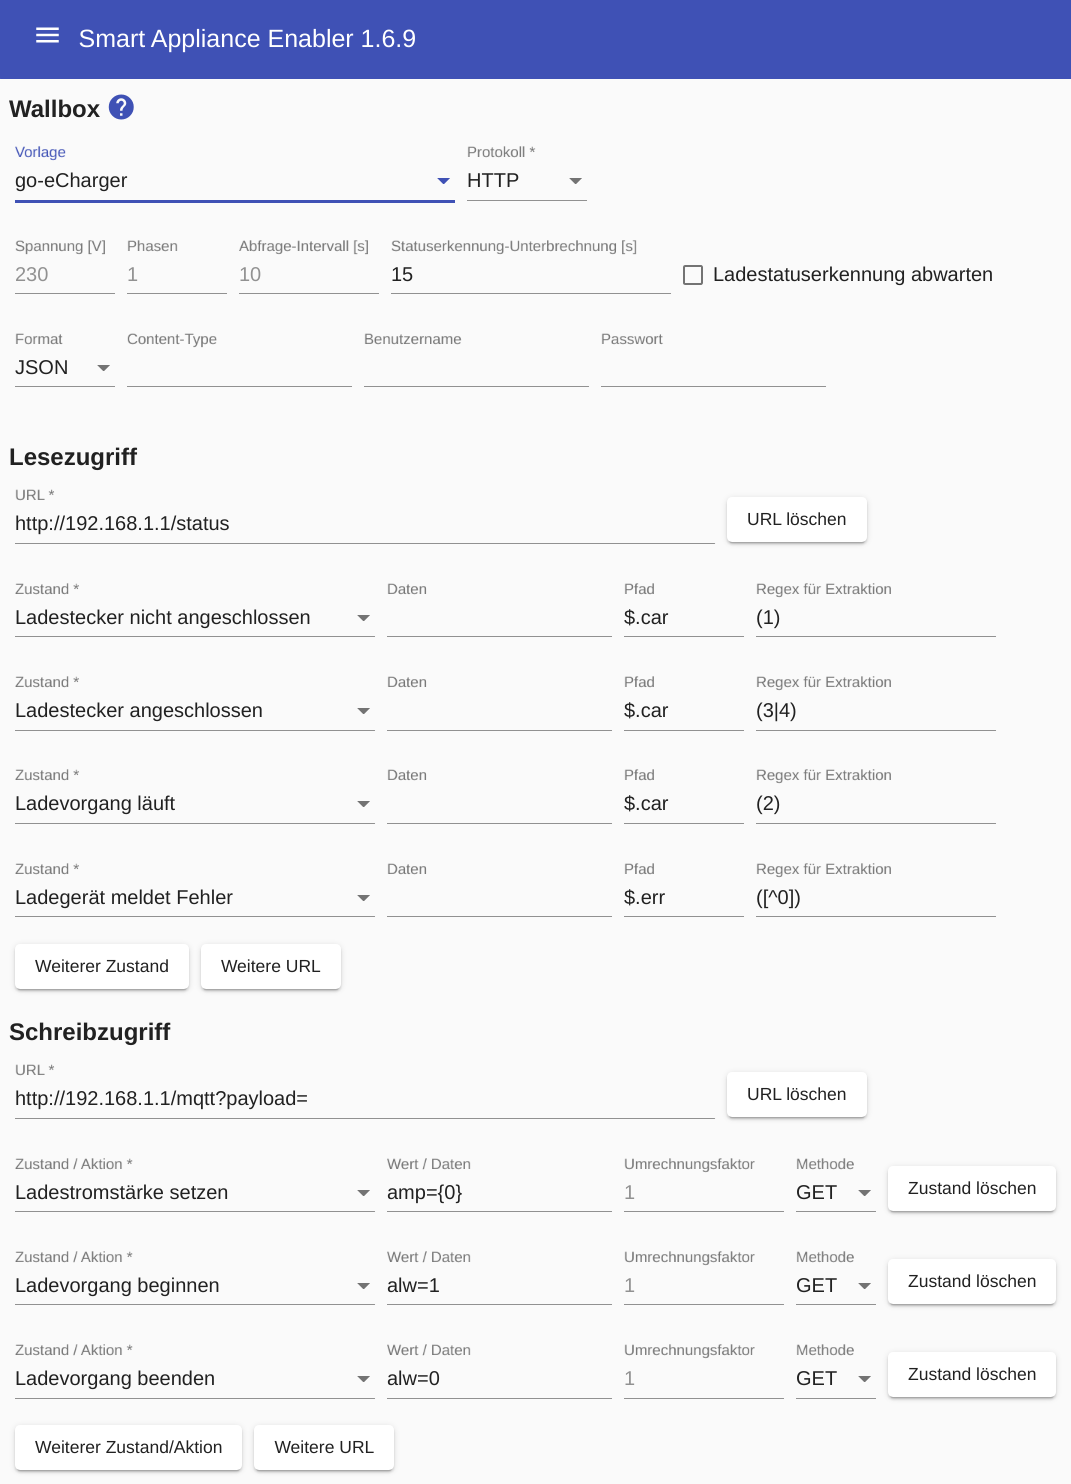
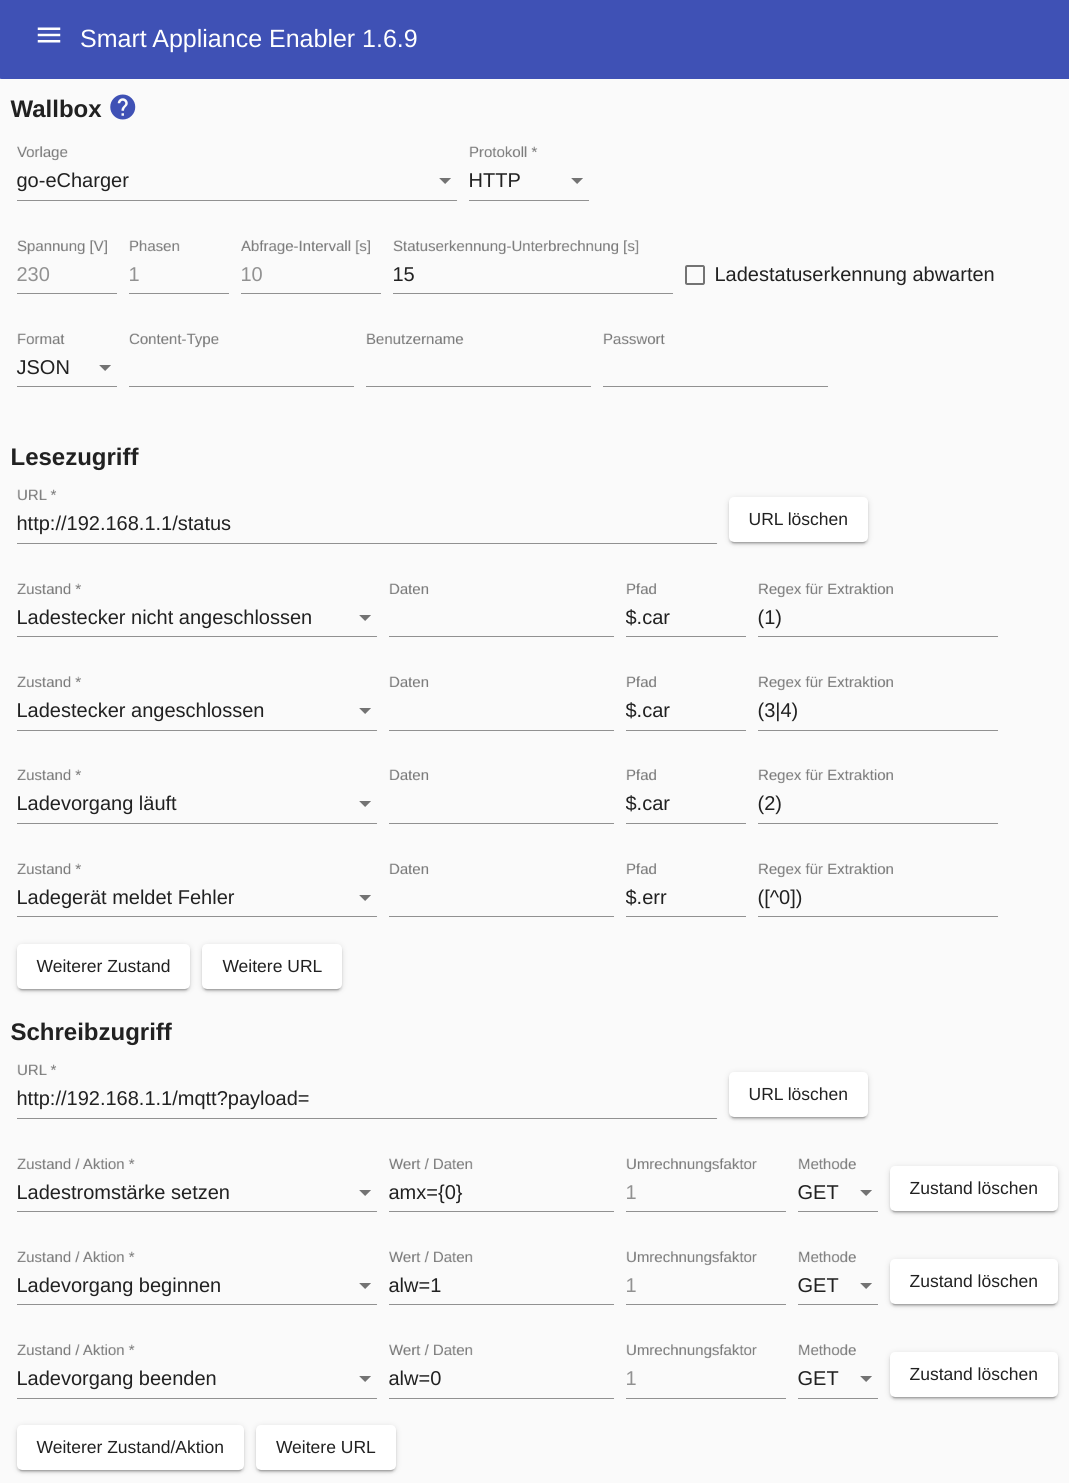
go-eCharger should be controlled via amx instead of amp

diff --git a/src/main/angular/src/app/control/evcharger/ev-charger-templates.ts b/src/main/angular/src/app/control/evcharger/ev-charger-templates.ts
@@ -224,7 +224,7 @@ export class EvChargerTemplates {
       '            "factorToValue": null,\n' +
       '            "method": "GET",\n' +
       '            "name": "ChargingCurrent",\n' +
-      '            "value": "amp={0}"\n' +
+      '            "value": "amx={0}"\n' +
       '          },\n' +
       '          {\n' +
       '            "@class": "de.avanux.smartapplianceenabler.http.HttpWriteValue",\n' +
